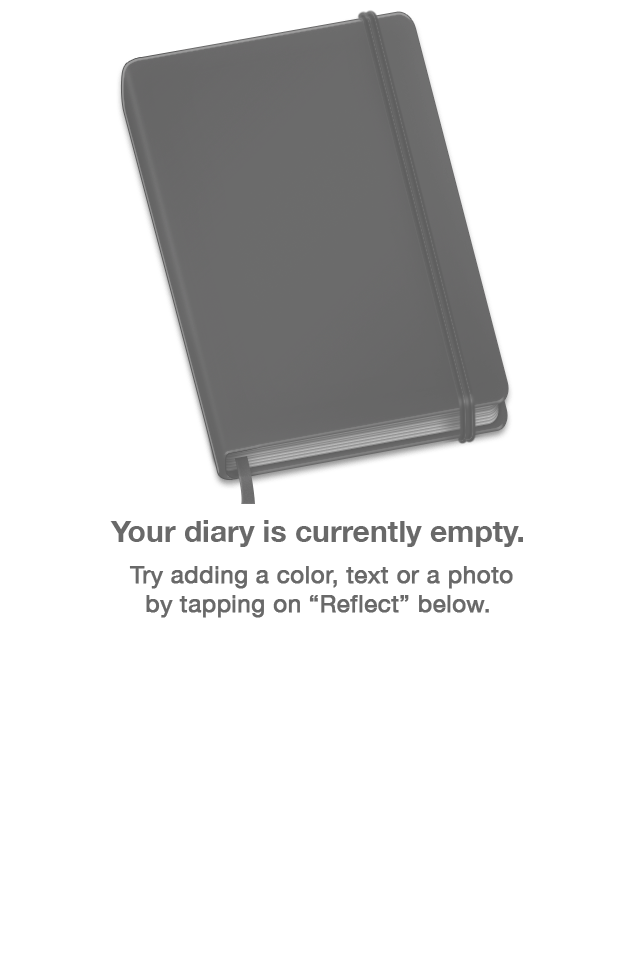
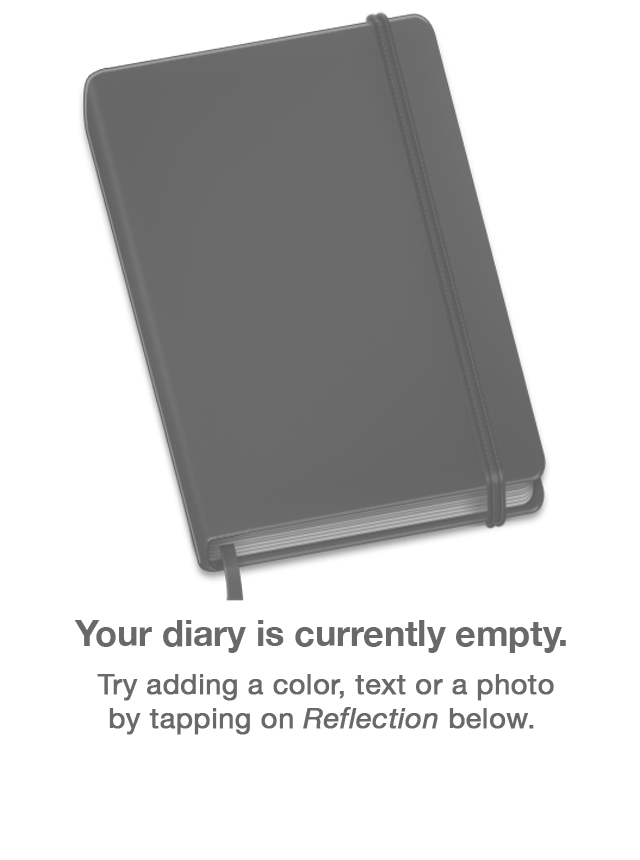
Empty Diary Image Added

Changed region(s): [[0.125, 0.0, 0.875, 0.6953], [0.1562, 0.786, 0.875, 0.8465], [0.125, 0.7256, 0.875, 0.7558]]

diff --git a/Classes/ScrollDiaryScreenController.m b/Classes/ScrollDiaryScreenController.m
@@ -28,40 +28,19 @@ static BOOL firstLoad = YES;
 
 @implementation ScrollDiaryScreenController
 
-@synthesize scrollView, dateTableView, viewControllers, tableManager, dateToPageDict,histRefViewCont, imagesForFilePath;
+@synthesize scrollView, dateTableView, viewControllers, tableManager, dateToPageDict,histRefViewCont, emptyDiaryImage, imagesForFilePath;
 
 /*
  // The designated initializer.  Override if you create the controller programmatically and want to perform customization that is not appropriate for viewDidLoad.
-- (id)initWithNibName:(NSString *)nibNameOrNil bundle:(NSBundle *)nibBundleOrNil {
-    if ((self = [super initWithNibName:nibNameOrNil bundle:nibBundleOrNil])) {
-        // Custom initialization
-    }
-    return self;
-}
-*/
-
--(NSMutableArray*)getColors{
-	
-	NSString *dateKey = [dates objectAtIndex:currentPage];
-	
-	DayTableObject *d = [tableManager.dayToTableRepDict objectForKey:dateKey];
-	
-	NSMutableArray *allref = [d reflections];
-	
-	NSMutableArray *returnValue = [[NSMutableArray alloc] init];
-	[returnValue retain];
-	
-	for(Reflection *r in allref){
-		if([r isKindOfClass:[ColorReflection class]])
-			[returnValue addObject:r];
-	}
-	
-	return returnValue;
-	
-}
+ - (id)initWithNibName:(NSString *)nibNameOrNil bundle:(NSBundle *)nibBundleOrNil {
+ if ((self = [super initWithNibName:nibNameOrNil bundle:nibBundleOrNil])) {
+ // Custom initialization
+ }
+ return self;
+ }
+ */
 
 -(void)loadScrollViewWithPage:(int)page{
-	
 	if(page < 0)
 		return;
 	if(page >= kNumberOfPages){
@@ -72,15 +51,9 @@ static BOOL firstLoad = YES;
 	
 	//s should never be nil
 	assert(s != nil);
-	
 	assert(s.view != nil);
-	
 	assert(s.imageView != nil);
-	
 	[scrollView addSubview:s.view];
-	
-	
-	
 }
 
 
@@ -96,9 +69,7 @@ static BOOL firstLoad = YES;
 		[self loadScrollViewWithPage:page-1];
 		[self loadScrollViewWithPage:page];
 		[self loadScrollViewWithPage:page+1];
-			
 	}
-	
 }
 
 -(void)viewDidAppear:(BOOL)animated{
@@ -107,24 +78,20 @@ static BOOL firstLoad = YES;
 	
 	//set kNumberofPages here with how many dates are in coredata etc.
 	viewControllers = [[NSMutableArray alloc] init];
-	
 	tableManager = [[ReflectionTableManager alloc] init];
-	
 	[tableManager retain];
-	
 	kNumberOfPages = [tableManager.dayToTableRepDict count];
 	
+	// Show Empty Diary Screen when there are no reflections
+	emptyDiaryImage.hidden = YES;
+	if (kNumberOfPages == 0){
+		emptyDiaryImage.hidden = NO;
+	}
 	
 	NSArray* s = [[tableManager dayToTableRepDict] allKeys];
-	
 	dates = [[NSMutableArray alloc] init];
-	
 	[dates addObjectsFromArray:s];
-	
     [dates sortUsingSelector:@selector(compare:)];
-	
-	
-	
 	
 	//add ScrolViewPageControllers here.  The imageViews are instantiated here and added to the scrollView
 	for(int i = 0; i < kNumberOfPages; i++){
@@ -132,7 +99,7 @@ static BOOL firstLoad = YES;
 		ScrollViewPageController *s = [[ScrollViewPageController alloc] init];
 		UIView *v = [[UIView alloc] init];
 		
-		// Get a Random Color for a Day
+		// Get a Random Color for a Day for a Flower
 		NSString *dateKey = [dates objectAtIndex:i];
 		DayTableObject *d = [tableManager.dayToTableRepDict objectForKey:dateKey];
 		NSMutableArray *allref = [d reflections];
@@ -150,34 +117,30 @@ static BOOL firstLoad = YES;
 			green = [[cr colorGreen] floatValue];
 			blue = [[cr colorGreen] floatValue];
 		}
-//		CGFloat red = (arc4random() % 32767) / 32767.0f;
-//		CGFloat green = (arc4random() % 32767) / 32767.0f;
-//		CGFloat blue = (arc4random() % 32767) / 32767.0f;
 		UIColor *randomColor = [UIColor colorWithRed:red green:green blue:blue alpha:1.0];
 		UIImage *img = [UIImage imageNamed:@"DiaryFlower.png" withColor:randomColor];
 		
-		//CHANGE THIS TO REPRESENT THE CORRECT FLOWER
+		// Add the flower
 		s.imageView = [[UIImageView alloc] initWithImage:img];
 		s.imageView.frame = CGRectMake(i*scrollView.frame.size.width, 0, scrollView.frame.size.width, scrollView.frame.size.height);
 		[v addSubview:s.imageView];
 		
-		// Add Left Arrow
+		// Add Left Arrow if needed
 		if (i != 0) {
 			UIImageView* leftArrow = [[UIImageView alloc] initWithImage:[UIImage imageNamed:@"ArrowLeft.png"]];
 			leftArrow.frame = CGRectMake(i*scrollView.frame.size.width+10, 80, 25, 25);
 			[v addSubview:leftArrow];
 		}
 		
-		// Add Right Arrow
+		// Add Right Arrow if needed
 		if (i < kNumberOfPages-1 ) {
 			UIImageView* rightArrow = [[UIImageView alloc] initWithImage:[UIImage imageNamed:@"ArrowRight.png"]];
 			rightArrow.frame = CGRectMake((i+1)*scrollView.frame.size.width-35, 80, 25, 25);
 			[v addSubview:rightArrow];
 		}
-			
+		
 		s.view = v;
 		[viewControllers addObject:s];
-		
 	}
 	
 	scrollView.pagingEnabled = YES;
@@ -207,23 +170,16 @@ static BOOL firstLoad = YES;
 // Implement viewDidLoad to do additional setup after loading the view, typically from a nib.
 - (void)viewDidLoad {
     [super viewDidLoad];
-	
 	[self viewDidAppear:NO];
-	
-	
 }
-
-
 
 /*
-// Override to allow orientations other than the default portrait orientation.
-- (BOOL)shouldAutorotateToInterfaceOrientation:(UIInterfaceOrientation)interfaceOrientation {
-    // Return YES for supported orientations
-    return (interfaceOrientation == UIInterfaceOrientationPortrait);
-}
-*/
-
-
+ // Override to allow orientations other than the default portrait orientation.
+ - (BOOL)shouldAutorotateToInterfaceOrientation:(UIInterfaceOrientation)interfaceOrientation {
+ // Return YES for supported orientations
+ return (interfaceOrientation == UIInterfaceOrientationPortrait);
+ }
+ */
 
 - (void)didReceiveMemoryWarning {
     // Releases the view if it doesn't have a superview.
@@ -234,30 +190,25 @@ static BOOL firstLoad = YES;
 
 - (void)viewDidUnload {
     [super viewDidUnload];
-	
-	
-	
     // Release any retained subviews of the main view.
     // e.g. self.myOutlet = nil;
 }
 
 -(void)makeThisDateTable{
-
 	thisDateTable = [[NSMutableArray alloc] init];
-	
 	if([dates count] > 0){
-	NSString *dateKey = [dates objectAtIndex:currentPage];
-	
-	DayTableObject *d = [tableManager.dayToTableRepDict objectForKey:dateKey];
-	
-	NSMutableArray *allref = [d reflections];
-	
-	for(Reflection *r in allref){
-		if(![r isKindOfClass:[ColorReflection class]]){
-			[thisDateTable addObject:r];
-		}
+		NSString *dateKey = [dates objectAtIndex:currentPage];
 		
-	}
+		DayTableObject *d = [tableManager.dayToTableRepDict objectForKey:dateKey];
+		
+		NSMutableArray *allref = [d reflections];
+		
+		for(Reflection *r in allref){
+			if(![r isKindOfClass:[ColorReflection class]]){
+				[thisDateTable addObject:r];
+			}
+			
+		}
 	}
 	
 	
@@ -278,13 +229,9 @@ static BOOL firstLoad = YES;
 
 - (NSInteger)tableView:(UITableView *)tableView numberOfRowsInSection:(NSInteger)section {
     // Return the number of rows in the section.
-	
 	[self makeThisDateTable];
-	
-	
     return [thisDateTable count];
 }
-
 
 // Customize the appearance of table view cells.
 - (UITableViewCell *)tableView:(UITableView *)tableView cellForRowAtIndexPath:(NSIndexPath *)indexPath {
@@ -309,15 +256,11 @@ static BOOL firstLoad = YES;
 		
 	}
 	if([r isKindOfClass:[PhotoReflection class]]){
-			
+		
 		cell.textLabel.text = @"Photo";
 	}
 	
-	
-    
     // Configure the cell...
-	
-	
 	//cell.textLabel.text = [NSString stringWithFormat:@"Cell number %i", [indexPath row]];
     
     return cell;
@@ -329,12 +272,12 @@ static BOOL firstLoad = YES;
 	//TODO
 	//return the correct date...
 	if([dates count] > 0){
-	return [dates objectAtIndex:currentPage];
+		return [dates objectAtIndex:currentPage];
 	}
 	else {
 		return @"Empty Diary";
 	}
-
+	
 }
 
 /*

diff --git a/Classes/ScrollDiaryScreenController.h b/Classes/ScrollDiaryScreenController.h
@@ -14,7 +14,6 @@
 
 @class HistoryReflectionViewController;
 
-
 @interface ScrollDiaryScreenController : UIViewController <UIScrollViewDelegate>{
 
 	IBOutlet UIScrollView *scrollView;
@@ -33,6 +32,8 @@
 	
 	NSMutableArray *thisDateTable;
 	NSMutableArray *viewControllers;
+	
+	UIImageView *emptyDiaryImage;
 }
 
 @property(nonatomic,retain) UIScrollView *scrollView;
@@ -43,8 +44,8 @@
 @property(nonatomic,retain) NSMutableDictionary *dateToPageDict;
 @property(nonatomic,retain) NSMutableArray *thisDateTable;
 @property(nonatomic,retain) HistoryReflectionViewController *histRefViewCont;
+@property(nonatomic,retain) IBOutlet UIImageView* emptyDiaryImage;
 @property(nonatomic,retain) NSMutableDictionary *imagesForFilePath;
-
 
 -(void)loadScrollViewWithPage:(int)page;
 

diff --git a/Classes/ScrollViewPageController.h b/Classes/ScrollViewPageController.h
@@ -10,7 +10,6 @@
 
 @interface ScrollViewPageController : UIViewController {
 	UIImageView *imageView;
-	
 }
 
 @property(nonatomic,retain) IBOutlet UIImageView *imageView;
